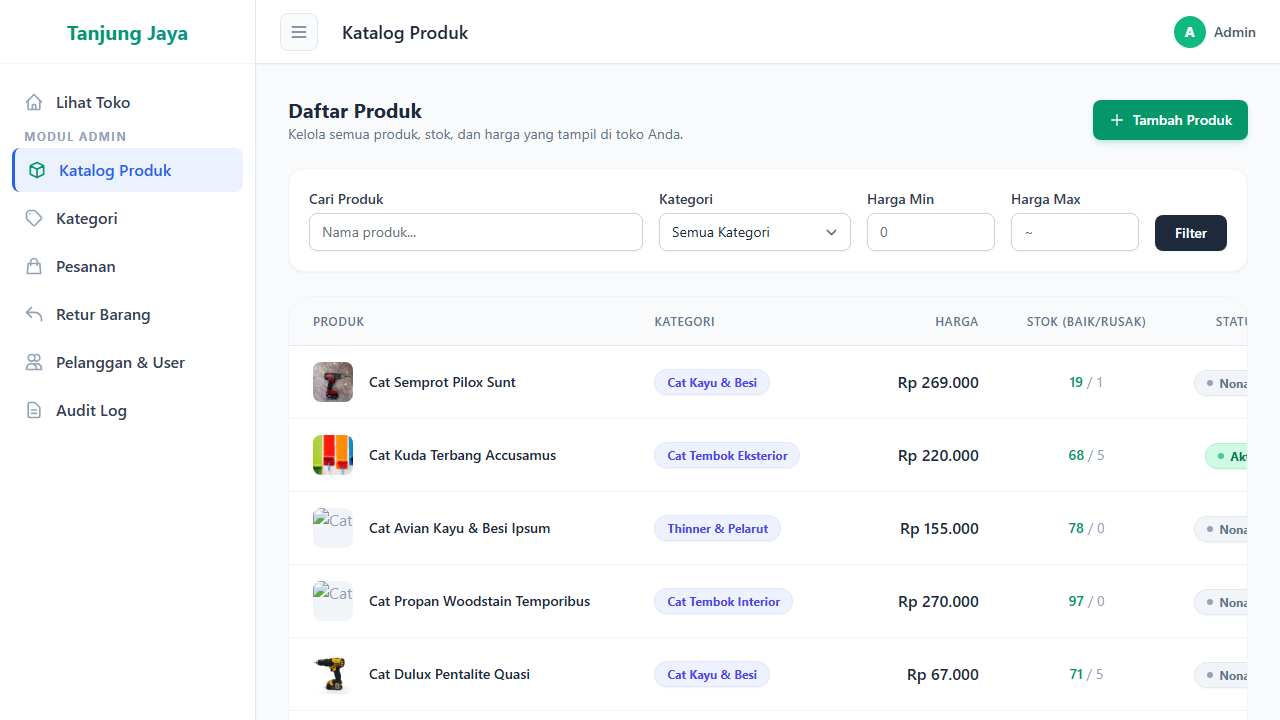
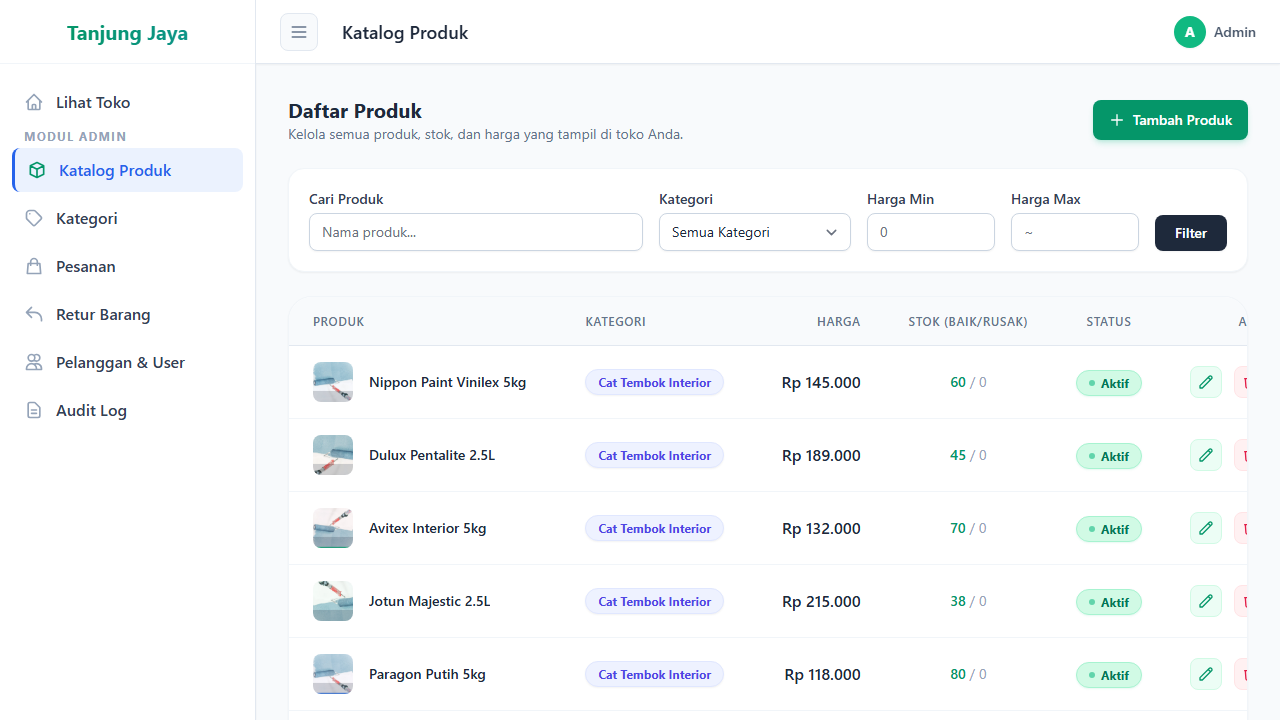
docs: tangkapan layar terbaru + galeri screenshot di README
Regenerasi 25 screenshot via Playwright smoke test (semua lolos, chatbot
menjawab dari katalog asli), lalu tampilkan galeri per peran di README
(katalog+chatbot, admin, manager, gudang, customer) plus tabel penomoran
file screenshot.

diff --git a/README.md b/README.md
@@ -2,6 +2,34 @@
 
 Aplikasi e-commerce untuk **PT. Warna Tanjung Jaya & PT. Sumber Tanjung Jaya** (toko bangunan & peralatan rumah tangga, Banjarmasin). Dibangun dengan Laravel + Blade + Alpine.js + Tailwind CSS.
 
+## Tangkapan Layar
+
+### Katalog & Asisten AI
+
+| Katalog Produk | Asisten AI (Chatbot) |
+|:---:|:---:|
+| ![Katalog produk Tanjung Jaya](docs/screenshots/01-katalog-guest.png) | ![Chatbot menjawab dari katalog asli](docs/screenshots/50-chatbot-jawaban.png) |
+
+### Panel Administrator
+
+| Kelola Produk (25 produk) | Manajemen Pesanan |
+|:---:|:---:|
+| ![Daftar produk di panel admin](docs/screenshots/20-admin-produk.png) | ![Monitoring pesanan admin](docs/screenshots/23-admin-pesanan.png) |
+
+### Dashboard & Laporan Manager
+
+| Dashboard Eksekutif | Laporan Penjualan |
+|:---:|:---:|
+| ![Dashboard manager](docs/screenshots/40-manager-dashboard.png) | ![Laporan penjualan manager](docs/screenshots/41-manager-laporan.png) |
+
+### Gudang & Pelanggan
+
+| Monitor Stok Gudang | Keranjang Belanja |
+|:---:|:---:|
+| ![Monitor stok gudang](docs/screenshots/30-gudang-stok.png) | ![Keranjang belanja customer](docs/screenshots/11-keranjang.png) |
+
+> Daftar lengkap 25 tangkapan layar tersedia di folder [`docs/screenshots/`](docs/screenshots/).
+
 ## Fitur Utama
 
 ### Pelanggan (Customer)
@@ -81,7 +109,19 @@ npx playwright test tests/e2e/smoke-screenshots.spec.ts
 npx playwright test tests/e2e/register.spec.ts
 ```
 
-Hasil screenshot tersimpan di `docs/screenshots/` (katalog, keranjang, pesanan, admin, gudang, manager, dan jawaban chatbot).
+Uji ini membuka 25 halaman (guest, customer, admin, gudang, manager) plus satu percakapan chatbot,
+lalu mencatat error console / request gagal dan menyimpan tangkapan layarnya.
+
+Hasil screenshot tersimpan di `docs/screenshots/` dengan penomoran per peran:
+
+| Rentang | Isi |
+|---------|-----|
+| `01`–`03`   | Halaman publik (katalog, login, register) |
+| `10`–`16`   | Halaman pelanggan (katalog, keranjang, pesanan, wishlist, ulasan, retur, profil) |
+| `20`–`27`   | Panel admin (produk, kategori, pesanan, retur, ulasan, pengguna, audit log) |
+| `30`–`32`   | Panel gudang (stok, pesanan, retur) |
+| `40`–`42`   | Panel manager (dashboard, laporan, langganan) |
+| `50`        | Percakapan chatbot (jawaban dari katalog asli) |
 
 ## Hak Akses per Peran
 
